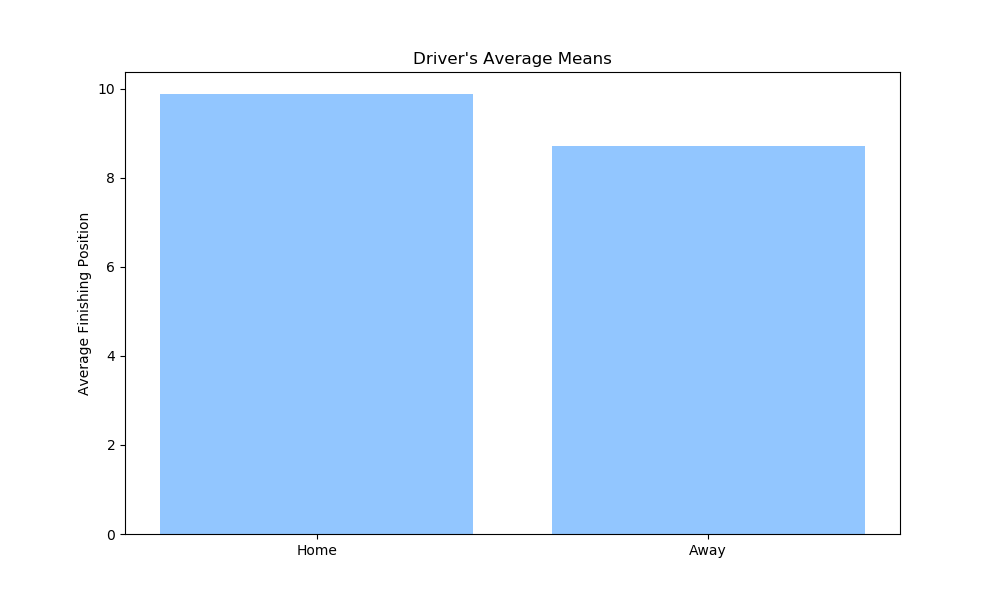
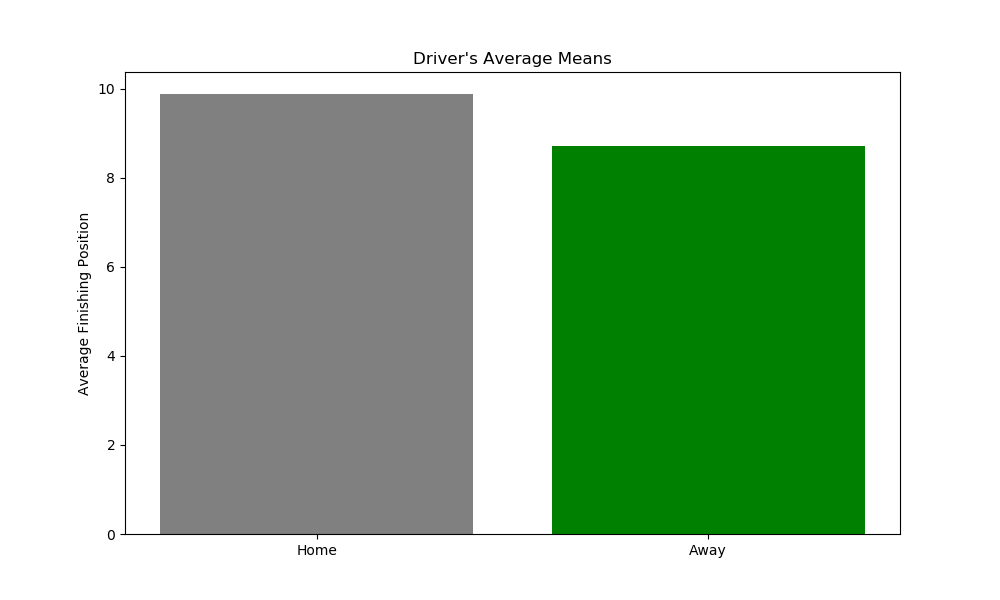
added pretty bar plot for driver countries

diff --git a/src/f1_home_advantage.py b/src/f1_home_advantage.py
@@ -229,8 +229,62 @@ class F1Home:
             ax.set_xlabel('Drivers')
             ax.set_title('Number of Drivers Per Country')
             plt.tight_layout()
-            plt.savefig('../img/driver_country_count_bar')
+            plt.savefig('../img/driver_country_count_bar.png')
             plt.show()
+
+    def show_driver_country_pretty(self):
+        # set font
+        plt.rcParams['font.family'] = 'sans-serif'
+        plt.rcParams['font.sans-serif'] = 'Helvetica'
+
+        # set the style of the axes and the text color
+        plt.rcParams['axes.edgecolor']='#333F4B'
+        plt.rcParams['axes.linewidth']=0.8
+        plt.rcParams['xtick.color']='#333F4B'
+        plt.rcParams['ytick.color']='#333F4B'
+        plt.rcParams['text.color']='#333F4B'
+
+        # create some fake data
+        #percentages = pd.Series([20, 15, 18, 8, 6, 7, 10, 2, 10, 4], 
+        #                        index=['Rent', 'Transportation', 'Bills', 'Food', 
+        #                            'Travel', 'Entertainment', 'Health', 'Other', 'Clothes', 'Phone'])
+        df = self.cleaned_drivers['country_driver'].value_counts().to_frame()#pd.DataFrame({'percentage' : percentages})
+        df = df.sort_values(by='country_driver')
+
+        # we first need a numeric placeholder for the y axis
+        my_range=list(range(1,len(df.index)+1))
+
+        fig, ax = plt.subplots(figsize=(5,7))
+
+        # create for each expense type an horizontal line that starts at x = 0 with the length 
+        # represented by the specific expense percentage value.
+        plt.hlines(y=my_range, xmin=0, xmax=df['country_driver'], color='#007ACC', alpha=0.2, linewidth=5)
+
+        # create for each expense type a dot at the level of the expense percentage value
+        plt.plot(df['country_driver'], my_range, "o", markersize=5, color='#007ACC', alpha=0.6)
+
+        # set labels
+        ax.set_xlabel('Drivers', fontsize=15, fontweight='black', color = '#333F4B')
+        ax.set_ylabel('')
+
+        # set axis
+        ax.tick_params(axis='both', which='major', labelsize=12)
+        plt.yticks(my_range, df.index)
+
+        # add an horizonal label for the y axis 
+        fig.text(-0.23, 0.96, 'Number of Drivers Per Country', fontsize=15, fontweight='black', color = '#333F4B')
+
+        # change the style of the axis spines
+        ax.spines['top'].set_color('none')
+        ax.spines['right'].set_color('none')
+        ax.spines['left'].set_smart_bounds(True)
+        ax.spines['bottom'].set_smart_bounds(True)
+
+        # set the spines position
+        ax.spines['bottom'].set_position(('axes', -0.04))
+        ax.spines['left'].set_position(('axes', 0.015))
+
+        plt.savefig('../img/driver_country_count_bar_pretty.png', dpi=300, bbox_inches='tight')
 
     def show_drivers_with_home_race_pie(self):
         #pie chart of drivers with home vs no home  
@@ -250,7 +304,7 @@ class F1Home:
         plt.savefig('../img/drivers_with_home_pie.png')
         plt.show()
     
-    def print_bar_chart(self, y_data, title, y_label, x_data, make_x_ticks=False, saveFigName=''):
+    def print_bar_chart(self, y_data, title, y_label, x_data, make_x_ticks=False, saveFigName='', color_list=[]):
         fig = plt.figure(figsize=(10, 6))
         ax = fig.add_subplot(111)
         x = x_data
@@ -258,7 +312,10 @@ class F1Home:
         if make_x_ticks:
             x = np.arange(len(x_data))
             plt.xticks(x, x_data)
-        ax.bar(x=x, height=y_data)    
+        if color_list:
+            ax.bar(x=x, height=y_data, color=color_list)
+        else:
+            ax.bar(x=x, height=y_data)
         ax.set_title(title)
         ax.set_ylabel(y_label)
         if saveFigName:
@@ -266,17 +323,17 @@ class F1Home:
         plt.tight_layout()
         plt.show()
 
-    def show_drivers_average_means(self, all_means):
+    def show_drivers_average_means(self, all_means, color_list=[]):
         #bar chart of avg pos(y ax) of home and away (x ax)
         values = [all_means['position_result_mean_home'].mean(), all_means['position_result_mean_away'].mean()]
         self.print_bar_chart(y_data=values,title='''Driver's Average Means''',y_label='Average Finishing Position',
-            x_data=['Home', 'Away'], make_x_ticks=True, saveFigName="AvgDriverMeans.png")
+            x_data=['Home', 'Away'], make_x_ticks=True, saveFigName="AvgDriverMeans.png", color_list=color_list)
     
-    def show_home_away_comp(self, all_means):
+    def show_home_away_comp(self, all_means, color_list=[]):
         #bar chart of num of drivers (y) with home advantage and without home ad (x)
         values = [all_means['position_result_mean_home'].count(), all_means['position_result_mean_away'].count()]
         self.print_bar_chart(y_data=values,title='Number of Drivers Who Have Home Advantage',y_label='Number of Drivers',
-            x_data=['Advantage', 'No Advantage'], make_x_ticks=True, saveFigName="DriverAdvantageCounts.png")
+            x_data=['Advantage', 'No Advantage'], make_x_ticks=True, saveFigName="DriverAdvantageCounts.png", color_list=color_list)
 
     def show_home_away_ratio(self, driver_means):
         # histogram of home/away ratio
@@ -330,9 +387,10 @@ if __name__ == '__main__':
     # Visualizations
     # f_one.show_driver_countries()
     # f_one.show_drivers_with_home_race_pie()
-    # f_one.show_drivers_average_means(all_result_means)
-    # f_one.show_home_away_comp(all_result_means)
+    #f_one.show_drivers_average_means(all_result_means, color_list=['grey', 'green'])
+    #f_one.show_home_away_comp(all_result_means, color_list=['pink', 'orange'])
     # f_one.show_home_away_ratio(driver_home_ratio)
+    f_one.show_driver_country_pretty()
     
     # Info printed to terminal
     f_one.show_wins_per_construtor()
